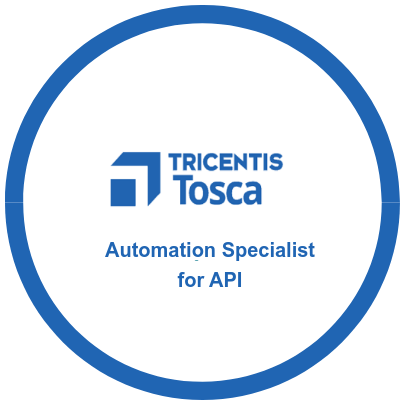
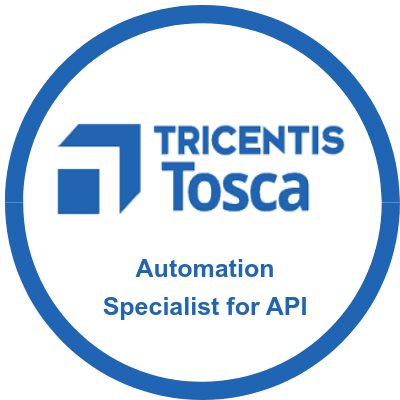
Added all Tosca certification

Changed region(s): [[0.12, 0.3, 0.87, 0.54], [0.24, 0.6, 0.81, 0.81]]

diff --git a/README.md b/README.md
@@ -92,8 +92,21 @@ With 11+ years of experience in software testing, including 4 years of onsite ex
     <img src="assets/img/jirafundamentals.png" alt="Jira Fundamentals" width="50">
 </a>
 
+<a href="https://verify.skilljar.com/c/mv49rm3nkd45" target="_blank">
+    <img src="assets/img/Automating-web-application-testing.png" alt="Automating Web Application Testing" width="50">
+</a>
 <a href="https://verify.skilljar.com/c/44yq8knjjytv" target="_blank">
     <img src="assets/img/Automation-Specialist-for-API.png" alt="Automation Specialist for API" width="50">
 </a>
+<a href="https://verify.skilljar.com/c/vwfxv53ya7id" target="_blank">
+    <img src="assets/img/Automating-Database.png" alt="Automating Database" width="50">
+</a>
+<a href="https://verify.skilljar.com/c/ynkbocqfbf3y" target="_blank">
+    <img src="assets/img/Automating-SAP.png" alt="Automating SAP" width="50">
+</a>
+<a href="https://verify.skilljar.com/c/jj6koguj8yyb" target="_blank">
+    <img src="assets/img/Tosca-Query-Language.png" alt="Tosca Query Language" width="50">
+</a>
+
 
 <!-- <img src="assets/images/badges/cert1.png" style="margin-right: 10px;" alt="Certification 1"> -->
